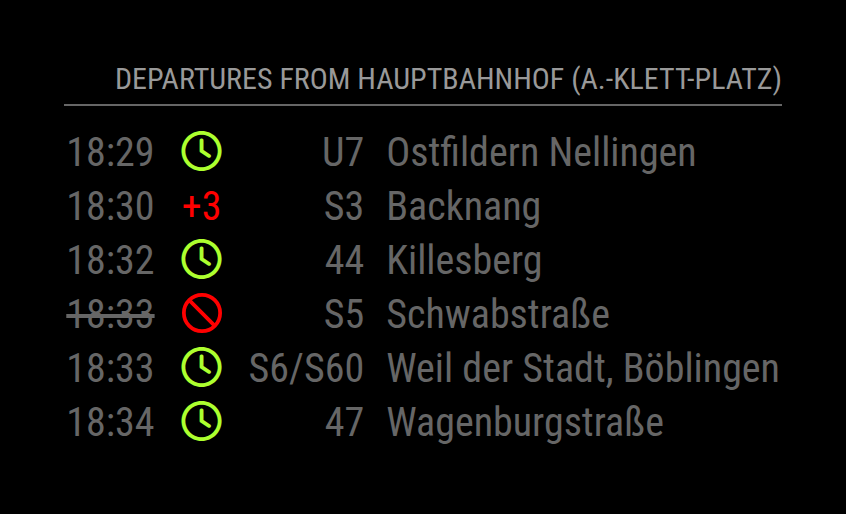
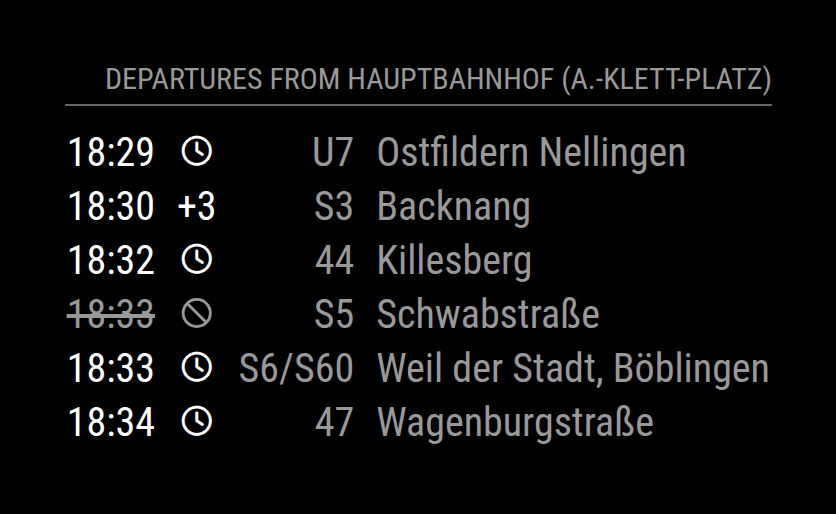
feat: show the times bright instead of dimmed
Every row had the classes small and dimmed, so the whole table was in
the dimmed color of MagicMirror², darker than the lists of its default
modules. Show the time and the realtime status bright, like the main
values of the default modules, e.g. the time of the clock or the title
of an event in the calendar, and the line and the destination in the
normal text color, like the times of the events. A cancelled departure
has the normal text color as a whole, with its time struck through and
the ban sign, so that it is still easy to read. The size class small
moves from the rows to the table, as in the calendar.

Replace the screenshot, which showed dimmed rows and the colors that
are off by default now.

diff --git a/tests/departure.test.js b/tests/departure.test.js
@@ -94,7 +94,13 @@ test("shows the planned time, the status, the line and the destination of each d
 		["21:54", "+2", "S6", "Schwabstraße"]
 	]);
 	// The classes that the CSS of MagicMirror² and of the module select
-	assert.equal(wrapper.querySelectorAll("table.departure > tr.small.dimmed > td.time + td + td.number + td.direction").length, 2);
+	assert.equal(wrapper.querySelectorAll("table.departure.small > tr > td.time + td + td.number + td.direction").length, 2);
+	// The time and the status bright, the line and the destination in the
+	// normal text color of the table
+	assert.deepEqual(cells(wrapper).map((row) => row.map((cell) => cell.classList.contains("bright"))), [
+		[true, true, false, false],
+		[true, true, false, false]
+	]);
 	// The clock is a Font Awesome icon, which MagicMirror² provides
 	assert.ok(createModule().getStyles().includes("font-awesome.css"));
 });
@@ -132,12 +138,18 @@ test("marks departures that VVS reports as cancelled", () => {
 	]);
 	assert.deepEqual(rows(wrapper).map((row) => row[1]), [BAN, BAN, BAN, BAN, BAN, CLOCK]);
 	// The time is struck through
-	assert.deepEqual(cells(wrapper).map((row) => row[0].className), ["time cancelled", "time cancelled", "time cancelled", "time cancelled", "time cancelled", "time"]);
+	assert.deepEqual(cells(wrapper).map((row) => row[0].className), ["time cancelled", "time cancelled", "time cancelled", "time cancelled", "time cancelled", "time bright"]);
+	// A cancelled departure has the normal text color as a whole, the others
+	// a bright time and status
+	assert.deepEqual(cells(wrapper).map((row) => row.filter((cell) => cell.classList.contains("bright")).length), [0, 0, 0, 0, 0, 2]);
+	// Nothing dimmed, so that a cancelled departure is still easy to read
+	assert.equal(wrapper.querySelectorAll(".dimmed, .normal").length, 0);
 });
 
 test("colors the status only if colorDelay or colorNoDelay is true", () => {
 	const departures = [departure(estimate("19:56:00")), departure(estimate("19:54:00")), departure({ isCancelled: true }), departure()];
-	const classes = (config) => cells(render(departures, config)).map((row) => row[1].className);
+	// The classes besides bright
+	const classes = (config) => cells(render(departures, config)).map((row) => Array.from(row[1].classList).filter((name) => name !== "bright").join(" "));
 	assert.deepEqual(classes(), ["delay", "nodelay", "delay", ""]);
 	assert.deepEqual(classes({ colorDelay: true }), ["delay color", "nodelay", "delay color", ""]);
 	assert.deepEqual(classes({ colorNoDelay: true }), ["delay", "nodelay color", "delay", ""]);

diff --git a/MMM-vvsDeparture.js b/MMM-vvsDeparture.js
@@ -84,7 +84,7 @@ Module.register("MMM-vvsDeparture", {
 			return wrapper;
 		}
 		const table = document.createElement("table");
-		table.className = "departure";
+		table.className = "departure small";
 		table.append(...trains.map((train) => this.getRow(train)));
 		wrapper.append(table);
 		return wrapper;
@@ -106,14 +106,17 @@ Module.register("MMM-vvsDeparture", {
 	},
 
 	// A row: the planned time, the realtime status, the lines and the
-	// destinations of a departure, or of the parts of a coupled train
+	// destinations of a departure, or of the parts of a coupled train. The
+	// time and the status are bright, like the main values of the default
+	// modules of MagicMirror², and the lines and the destinations have the
+	// normal text color, like details. A cancelled departure has the normal
+	// text color as a whole, so that it is still easy to read.
 	getRow(departures) {
 		const cancelled = this.isCancelled(departures[0]);
 		const row = document.createElement("tr");
-		row.className = "small dimmed";
 
 		const time = document.createElement("td");
-		time.className = cancelled ? "time cancelled" : "time";
+		time.className = cancelled ? "time cancelled" : "time bright";
 		time.textContent = this.formatTime(departures[0].departureTimePlanned);
 
 		// A ban sign if the departure is cancelled, a clock if it is on time,
@@ -132,6 +135,9 @@ Module.register("MMM-vvsDeparture", {
 		} else if (delay !== null) {
 			status.className = this.config.colorDelay ? "delay color" : "delay";
 			status.textContent = delay > 0 ? `+${delay}` : `${delay}`;
+		}
+		if (!cancelled) {
+			status.classList.add("bright");
 		}
 
 		const line = document.createElement("td");

diff --git a/README.md b/README.md
@@ -7,7 +7,7 @@ A [MagicMirror²](https://magicmirror.builders) module that shows the next depar
 ## Features
 
 - The next departures with their planned time, line and destination, straight from VVS, without an API key
-- Delays and early departures in minutes, e.g. `+3` or `-1`, a clock for departures on time, and a ban sign and a struck-through time for cancelled ones. Without realtime data, the column stays empty.
+- Delays and early departures in minutes, e.g. `+3` or `-1`, a clock for departures on time, and a ban sign and a struck-through time for cancelled ones. The time and the status are bright, the line and the destination in the normal text color, and so is a cancelled departure as a whole. Without realtime data, the column stays empty.
 - Coupled trains in one row, e.g. `S6/S60`, with all destinations of a train that splits later on
 - Filters for lines and destinations, and an offset for the time you need to get to the stop
 - English and German
